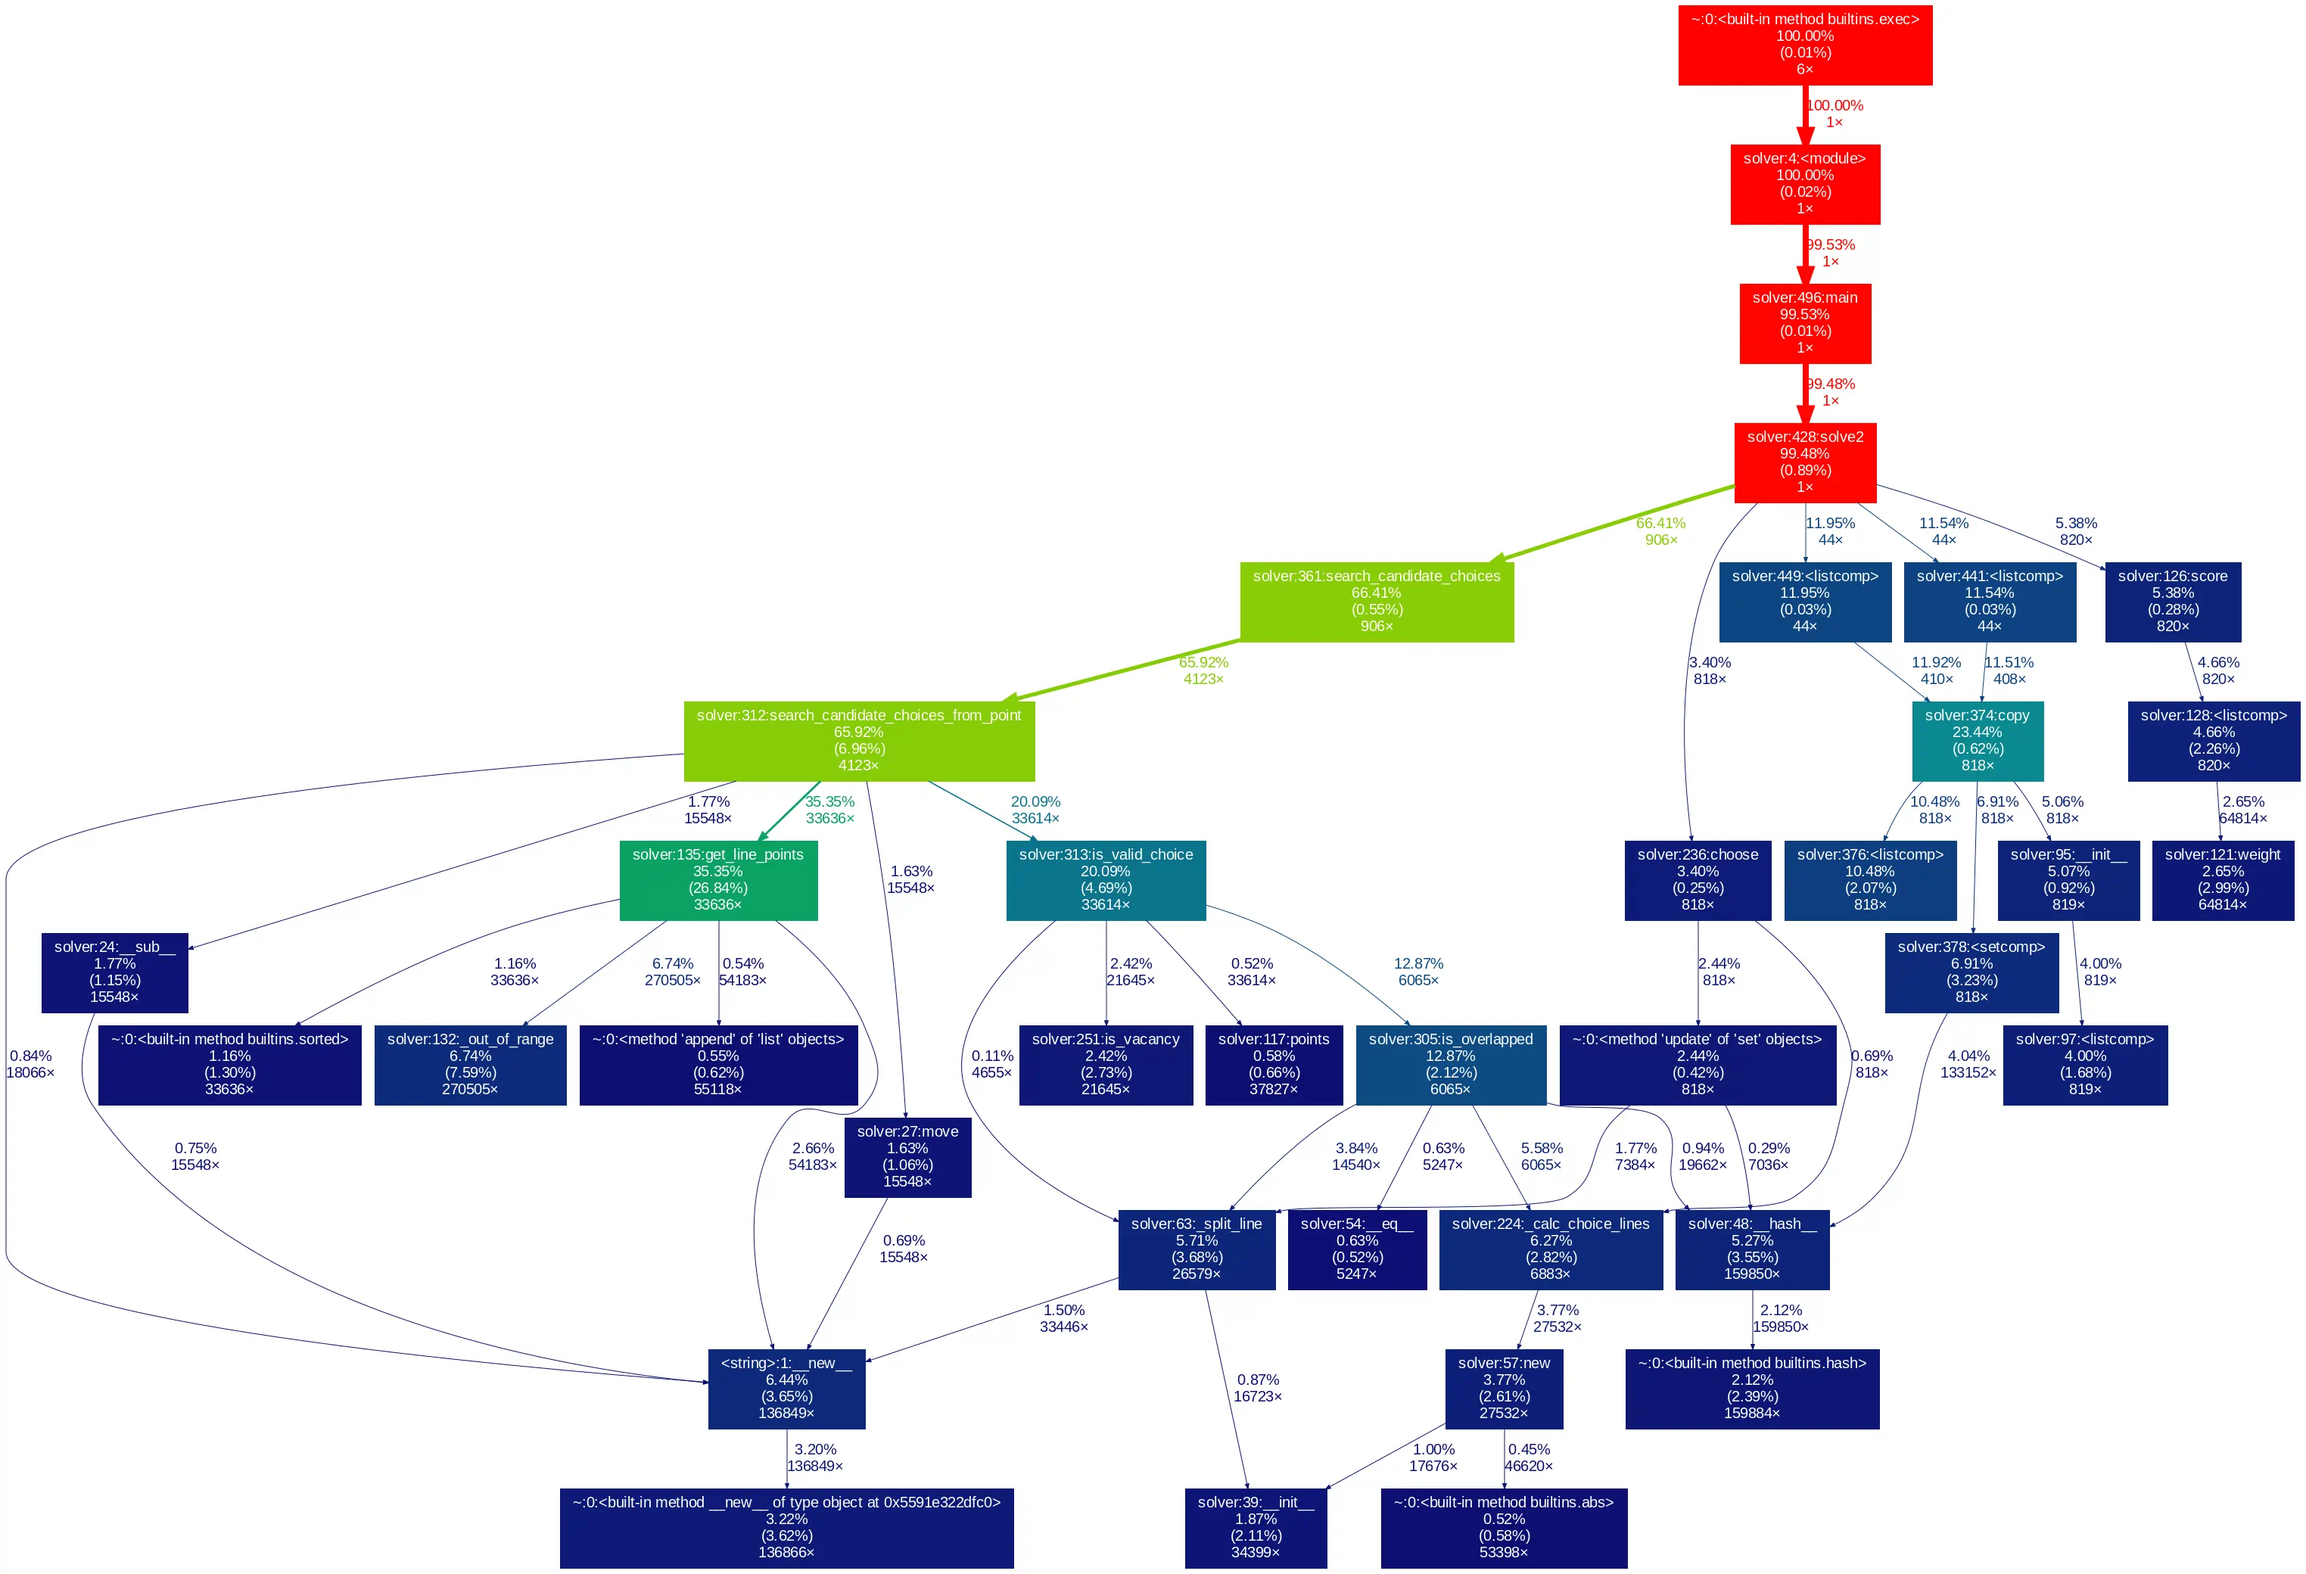
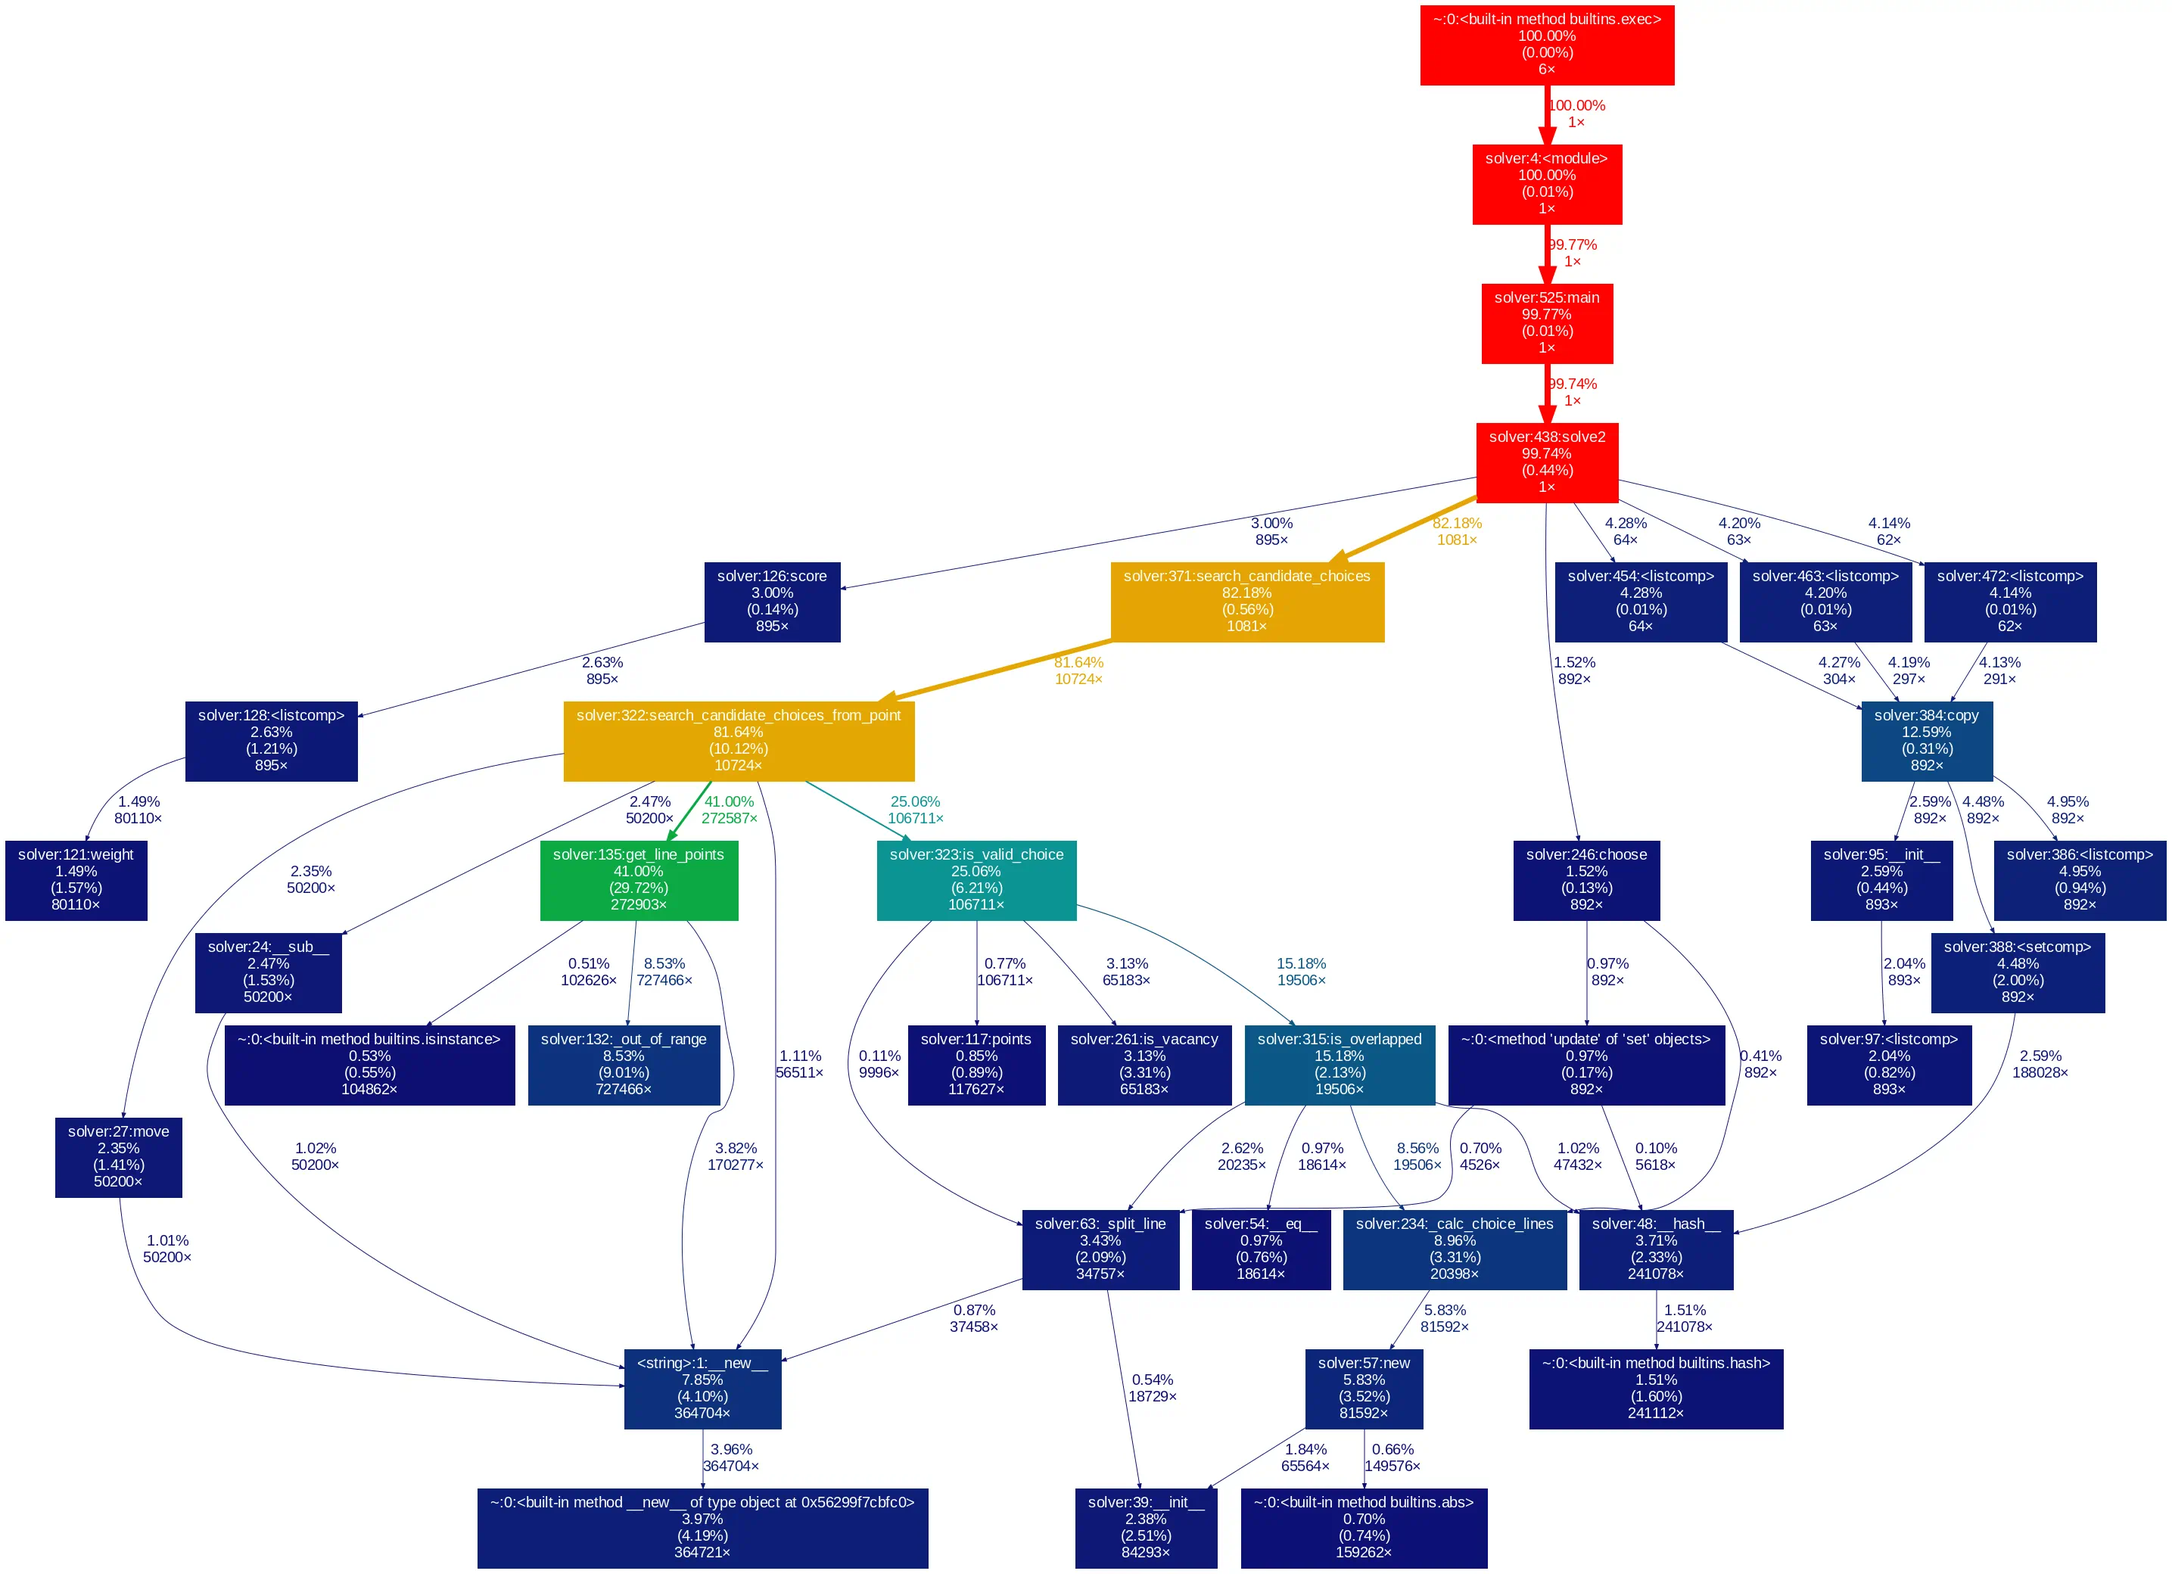
optimize?: beam search: 3 boards per gen

diff --git a/solver.py b/solver.py
@@ -136,7 +136,7 @@ class Board:
             self,
             p: Coord,
             mode: Literal['x', 'y', 'up', 'down', 'all']
-    ) -> List[Coord]:
+    ) -> Iterator[Coord]:
         """
         get points on the same line from p. 
 
@@ -145,7 +145,6 @@ class Board:
             mode: search mode
         """
         mode_set = {'x', 'y', 'up', 'down', 'all'}
-        points = []
         if not isinstance(p, Coord):
             p = Coord(*p)
         if mode not in mode_set:
@@ -156,16 +155,20 @@ class Board:
                 x, y = p.x + i, p.y
                 if self._out_of_range(x, y):
                     break
+                if x == p.x and y == p.y:
+                    continue
                 if self._field[y][x] == X:
-                    points.append(Coord(x, y))
+                    yield Coord(x, y)
                     break
 
             for i in range(1, self.size - 1):
                 x, y = p.x - i, p.y
                 if self._out_of_range(x, y):
                     break
+                if x == p.x and y == p.y:
+                    continue
                 if self._field[y][x] == X:
-                    points.append(Coord(x, y))
+                    yield Coord(x, y)
                     break
 
         if mode == 'y' or mode == 'all':
@@ -173,15 +176,19 @@ class Board:
                 x, y = p.x, p.y + i
                 if self._out_of_range(x, y):
                     break
+                if x == p.x and y == p.y:
+                    continue
                 if self._field[y][x] == X:
-                    points.append(Coord(x, y))
+                    yield Coord(x, y)
                     break
             for i in range(1, self.size - 1):
                 x, y = p.x, p.y - i
                 if self._out_of_range(x, y):
                     break
+                if x == p.x and y == p.y:
+                    continue
                 if self._field[y][x] == X:
-                    points.append(Coord(x, y))
+                    yield Coord(x, y)
                     break
 
         if mode == 'up' or mode == 'all':  # positive gradient
@@ -189,15 +196,19 @@ class Board:
                 x, y = p.x + i, p.y + i
                 if self._out_of_range(x, y):
                     break
+                if x == p.x and y == p.y:
+                    continue
                 if self._field[y][x] == X:
-                    points.append(Coord(x, y))
+                    yield Coord(x, y)
                     break
             for i in range(1, self.size - 1):
                 x, y = p.x - i, p.y - i
                 if self._out_of_range(x, y):
                     break
+                if x == p.x and y == p.y:
+                    continue
                 if self._field[y][x] == X:
-                    points.append(Coord(x, y))
+                    yield Coord(x, y)
                     break
 
         if mode == 'down' or mode == 'all':  # negative gradient
@@ -205,21 +216,20 @@ class Board:
                 x, y = p.x + i, p.y - i
                 if self._out_of_range(x, y):
                     break
+                if x == p.x and y == p.y:
+                    continue
                 if self._field[y][x] == X:
-                    points.append(Coord(x, y))
+                    yield Coord(x, y)
                     break
             for i in range(1, self.size - 1):
                 x, y = p.x - i, p.y + i
                 if self._out_of_range(x, y):
                     break
+                if x == p.x and y == p.y:
+                    continue
                 if self._field[y][x] == X:
-                    points.append(Coord(x, y))
+                    yield Coord(x, y)
                     break
-
-        ret = list(set(points))
-        if p in ret:
-            ret.remove(p)
-        return sorted(ret)
 
     @staticmethod
     def _calc_choice_lines(c: Choice) -> Iterator[Line]:
@@ -429,12 +439,15 @@ def solve2(board: Board) -> Board:
     from time import time
     start_time = time()
     from itertools import islice
-    max_num_of_can = 10
-    b1, b2 = board, board
+    max_num_of_can = 5
+    b1, b2, b3 = board, None, None
     while True:
         if time() - start_time > 4.5:
             break
-        max1_score = max2_score = 0
+        max1_score = max2_score = max3_score = 0
+        # b1s = []
+        b2s = []
+        b3s = []
 
         candidates1 = list(islice(b1.search_candidate_choices(), max_num_of_can))
         num_of_can1 = len(candidates1)
@@ -444,18 +457,28 @@ def solve2(board: Board) -> Board:
             c = candidates1[ci]
             b.choose(*c)
 
-        candidates2 = list(islice(b2.search_candidate_choices(), max_num_of_can))
-        num_of_can2 = len(candidates2)
-        b2s = [b2.copy() for _ in range(num_of_can2)]
-        for ci in range(num_of_can2):
-            b = b2s[ci]
-            c = candidates2[ci]
-            b.choose(*c)
+        if b2:
+            candidates2 = list(islice(b2.search_candidate_choices(), max_num_of_can))
+            num_of_can2 = len(candidates2)
+            b2s = [b2.copy() for _ in range(num_of_can2)]
+            for ci in range(num_of_can2):
+                b = b2s[ci]
+                c = candidates2[ci]
+                b.choose(*c)
 
-        if not b1s and not b2s:
+        if b3:
+            candidates3 = list(islice(b3.search_candidate_choices(), max_num_of_can))
+            num_of_can3 = len(candidates3)
+            b3s = [b3.copy() for _ in range(num_of_can3)]
+            for ci in range(num_of_can3):
+                b = b3s[ci]
+                c = candidates3[ci]
+                b.choose(*c)
+
+        if not b1s and not b2s and not b3s:
             break
 
-        for b in b1s + b2s:
+        for b in b1s + b2s + b3s:
             s = b.score
             if s > max1_score:
                 b1 = b
@@ -463,15 +486,21 @@ def solve2(board: Board) -> Board:
             elif s > max2_score:
                 b2 = b
                 max2_score = s
+            elif s > max3_score:
+                b3 = b
+                max3_score = s
 
         # print(b1.choices_count, file=stderr)
         # print(b2.choices_count, file=stderr)
         # print('-', file=stderr)
 
-    if b1.score > b2.score:
+    s1, s2, s3 = b1.score, b2.score, b3.score
+    if s1 > s2 and s1 > s3:
         return b1
-    else:
+    elif s2 > s1 and s2 > s3:
         return b2
+    else:
+        return b3
 
 
 def read_input() -> Board:

diff --git a/tests/test_solver.py b/tests/test_solver.py
@@ -79,22 +79,27 @@ class TestSolver:
 
     def test_get_line_points_x(self):
         x = self.board.get_line_points(Coord(12, 18), mode='x')
+        x = list(sorted(x))
         assert x == [(8, 18), (15, 18)], x
 
     def test_get_line_points_y(self):
         y = self.board.get_line_points(Coord(15, 18), mode='y')
+        y = list(sorted(y))
         assert y == sorted([(15, 17), (15, 19)]), y
 
     def test_get_line_points_up(self):
         up = self.board.get_line_points(Coord(12, 18), mode='up')
+        up = list(sorted(up))
         assert up == [], up
 
     def test_get_line_points_down(self):
         down = self.board.get_line_points(Coord(12, 18), mode='down')
+        down = list(sorted(down))
         assert down == [(15, 15)], down
 
     def test_get_line_points_all(self):
         all_ = self.board.get_line_points(Coord(12, 18), mode='all')
+        all_ = list(sorted(all_))
         assert all_ == sorted([(8, 18), (15, 18), (12, 17), (12, 23), (15, 15)]), all_
 
     def test_score(self):
